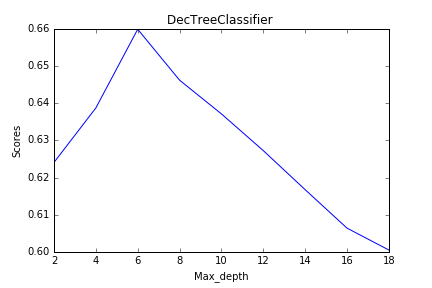
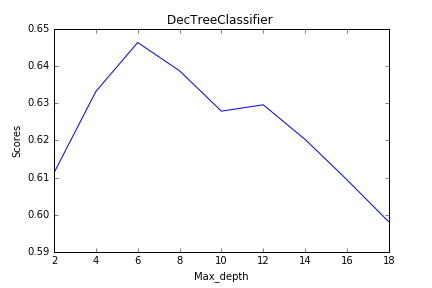
Correct +str

diff --git a/Phase2/decTreeClassifier.py b/Phase2/decTreeClassifier.py
@@ -9,20 +9,20 @@ import matplotlib.pyplot as plt
 from feature_selection import feature_selection
 
 #Loading data
-x_train = np.loadtxt('../Data_66/x_train.txt')
-y_train_binary = np.loadtxt('../Data_66/y_train_binary.txt')
-x_test = np.loadtxt('../Data_66/x_test.txt')
-y_test_binary = np.loadtxt('../Data_66/y_test_binary.txt')
-x_orig_train = np.loadtxt('../Data_66/x_orig_train.txt')
-y_orig_train_binary = np.loadtxt('../Data_66/y_orig_train_binary.txt')
+x_train = np.loadtxt('../Data/x_train.txt')
+y_train_binary = np.loadtxt('../Data/y_train_binary.txt')
+x_test = np.loadtxt('../Data/x_test.txt')
+y_test_binary = np.loadtxt('../Data/y_test_binary.txt')
+x_orig_train = np.loadtxt('../Data/x_orig_train.txt')
+y_orig_train_binary = np.loadtxt('../Data/y_orig_train_binary.txt')
 
 #Modeling classifier
 clf = dtc(max_depth = 3)
 
 #Calling feature selection methods
-#fs = feature_selection()
+fs = feature_selection()
 #clf,x_train,x_test,y_out = fs.PCASelection(x_train,y_train_binary,x_test,y_test_binary,clf)
-#clf,x_train,x_test,y_out = fs.KBest(x_train,y_train_binary,x_test,y_test_binary,clf)
+clf,x_train,x_test,y_out = fs.KBest(x_train,y_train_binary,x_test,y_test_binary,clf)
 
 #Printing scores
 clf.fit (x_train,y_train_binary)
@@ -35,7 +35,6 @@ print "Precision recall f-score support : " , prfs(y_test_binary,y_out)
 
 
 #Cross validation
-#cval = CV()
 folds = 2
 print "\nManual ",folds," fold cross validation score"
 CV(x_orig_train,y_orig_train_binary,clf,folds);
@@ -82,7 +81,7 @@ plt.savefig('DecTreeClassifier.png')
 
 #Plotting ROC curve
 from ROCCurves import ROCCurves as ROC
-ROC().getROCCurves(clf,x_train,y_train_binary,x_test,y_test_binary,"decTree")
+ROC().getROCCurves(clf,x_train,y_train_binary,x_test,y_test_binary,'decTree')
 
 from DatasetVsAccuracy import DatasetVsAccuracyPlot as dvap
-dvap(clf,x_train,y_train_binary,x_test,y_test_binary)
+dvap(clf,x_train,y_train_binary,x_test,y_test_binary,"decTree")

diff --git a/Phase2/ROCCurves.py b/Phase2/ROCCurves.py
@@ -12,7 +12,7 @@ from scipy import interp
 import numpy as np
 
 class ROCCurves:
-    def getROCCurves(self,clf,x_train,y_train_binary,x_test,y_test_binary,classifier):
+    def getROCCurves(self,clf,x_train,y_train_binary,x_test,y_test_binary,classifierName):
         # Plot of a ROC curve for a specific class
         preds = clf.predict_proba(x_test)[:,1]
         fpr = []
@@ -21,7 +21,7 @@ class ROCCurves:
         fpr, tpr, _ = roc_curve(y_test_binary, preds)
         roc_auc = auc(fpr, tpr)
         
-        savename = classifier + 'ROC.png'
+        savename = classifierName + 'ROC.png'
         plt.figure()
         plt.plot(fpr, tpr, label='ROC curve (area = %0.2f)' % roc_auc)
         plt.plot([0, 1], [0, 1], 'k--')
@@ -71,7 +71,7 @@ class ROCCurves:
         plt.xlabel('False Positive Rate')
         plt.ylabel('True Positive Rate')
         plt.title('Receiver operating characteristic example')
-        savename = classifier + 'ROC_kfold.png'
+        savename = classifierName + 'ROC.png'
         plt.savefig(savename)
         plt.legend(loc="lower right")
         plt.show()

diff --git a/Phase2/adaBoostClassifier.py b/Phase2/adaBoostClassifier.py
@@ -56,21 +56,17 @@ for i in [0.1,1,2]:
     learn_rate_scores[i]=sc
 opt_learn_rate = max(learn_rate_scores,key = learn_rate_scores.get)
 print "Best parameter : ",opt_learn_rate
-clf = abc(learning_rate = opt_learn_rate)
-clf.fit (x_train,y_train_binary)
 
 print "Tuning number of estimators"
 n_est_scores = {}
 for i in range(20,70,5):
-    clf = abc(n_estimators = i)
+    clf = abc(n_estimators = i,learning_rate = opt_learn_rate)
     clf.fit (x_train,y_train_binary)
     sc = clf.score(x_test,y_test_binary)
     print 'Score for ',i,':',sc
     n_est_scores[i]=sc
 opt_n_est = max(n_est_scores,key = n_est_scores.get)
 print "Best parameter : ",opt_n_est
-clf = abc(n_estimators = opt_n_est)
-# print "Best parameter : ",best_params_
 
 
 #Printing final result
@@ -110,4 +106,4 @@ ROC().getROCCurves(clf,x_train,y_train_binary,x_test,y_test_binary,"adaBoost")
 
 #Dataset Vs Accuracy plot
 from DatasetVsAccuracy import DatasetVsAccuracyPlot as dvap
-dvap(clf,x_train,y_train_binary,x_test,y_test_binary)
+dvap(clf,x_train,y_train_binary,x_test,y_test_binary,"adaBoost")

diff --git a/Phase2/mlpc.py b/Phase2/mlpc.py
@@ -59,8 +59,6 @@ for i in  [0.0001,0.001,0.01,0.1,1,10]:
     alpha_scores[i]=sc
 opt_alpha = max(alpha_scores,key = alpha_scores.get)
 print "Best parameter : ",opt_alpha
-clf = MLPClassifier(alpha=opt_alpha)
-clf.fit (x_train,y_train_binary)
 
 #Printing final result
 clf =  MLPClassifier(alpha=opt_alpha)
